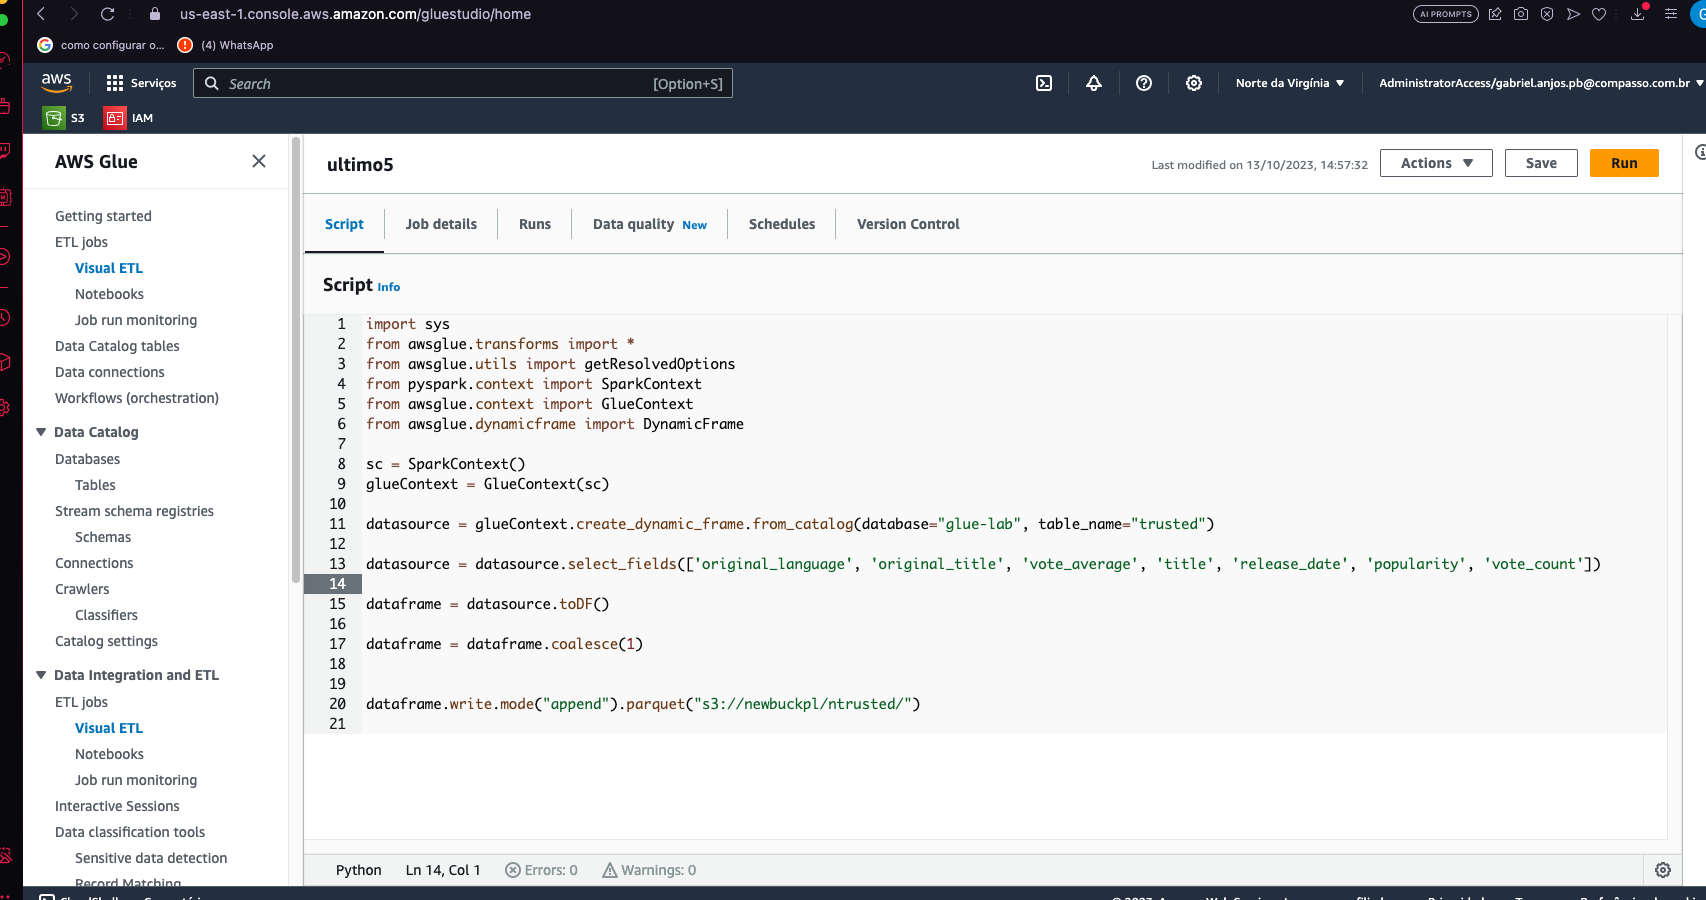
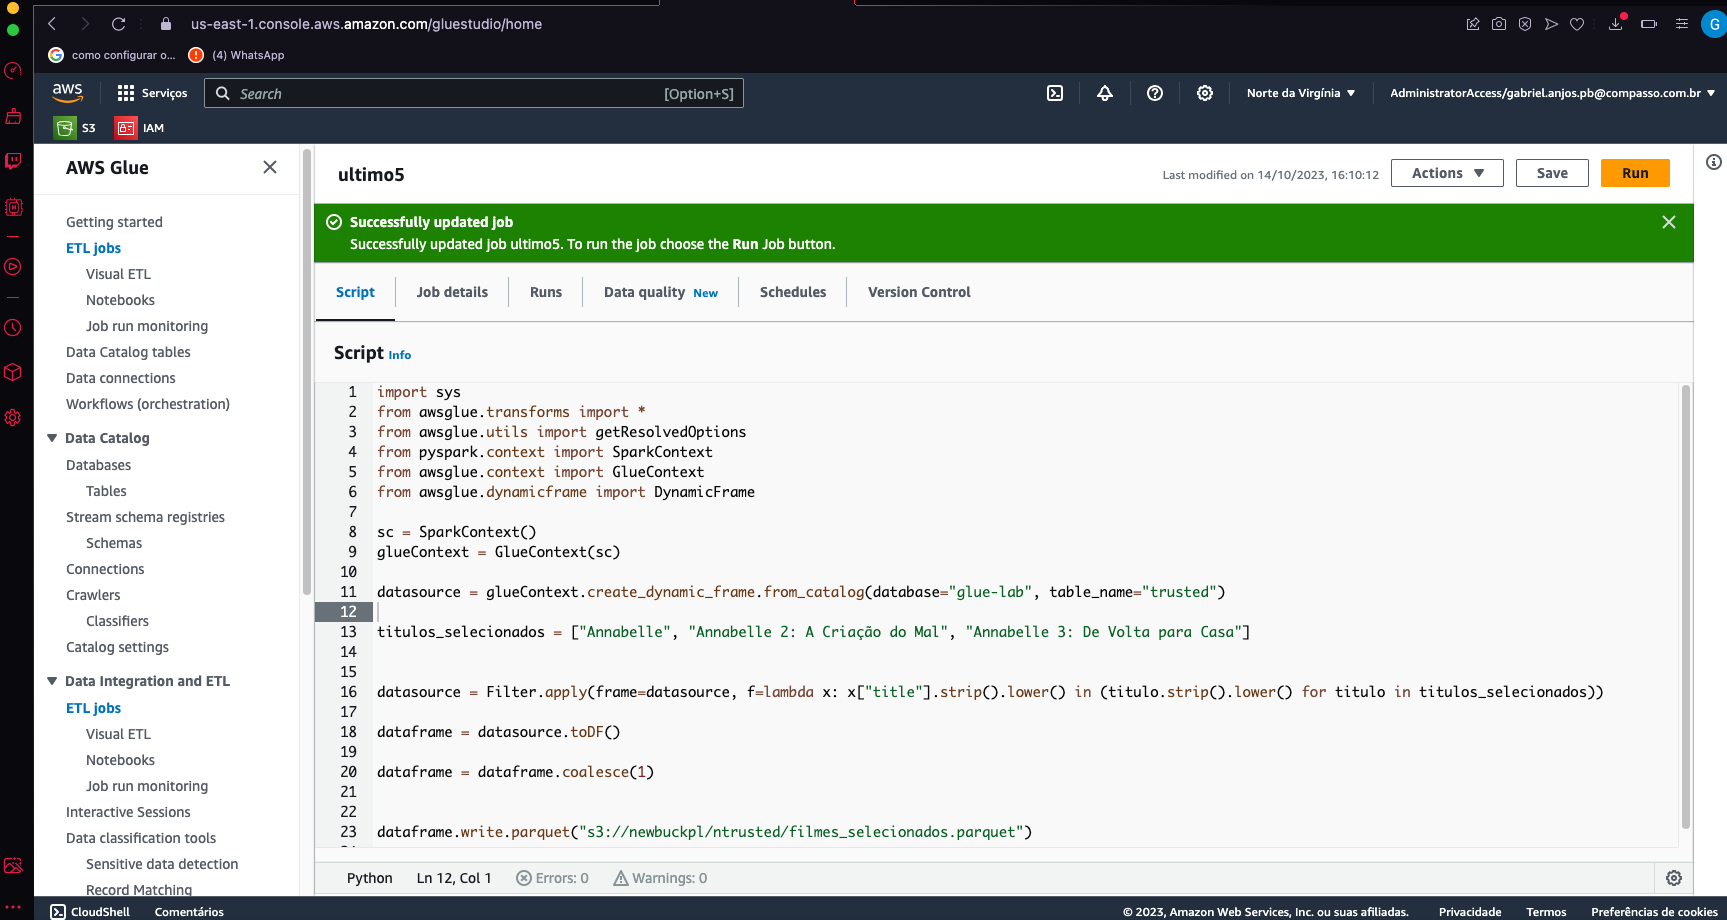
Update

diff --git a/sprint9/relatorio/relatorio.md b/sprint9/relatorio/relatorio.md
@@ -41,5 +41,5 @@ Passo 1: Criação do Job
 - Inicialmente, criei um novo job.
 
 Passo 2: Seleção de Colunas e Armazenamento
-- Desenvolvi um código para selecionar as colunas de dados relevantes.
-- Enviei essas colunas para uma pasta que criei no meu bucket de armazenamento.
+- Desenvolvi um código para selecionar as colunas de dados relevantes e filtrar apenas os filmes que vou ultilizar.
+- Enviei esses filmes para uma pasta que criei no meu bucket de armazenamento.
